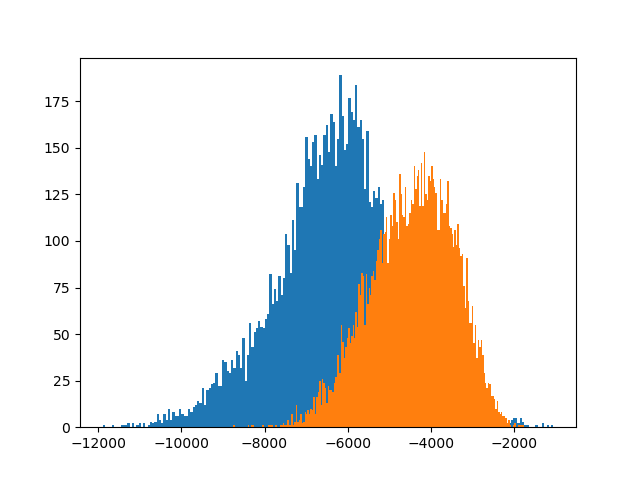
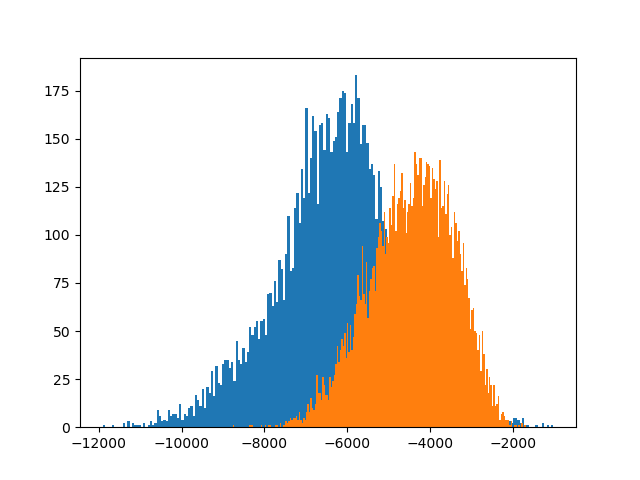
update ood detection result

diff --git a/ood_detect.py b/ood_detect.py
@@ -7,6 +7,7 @@ from tqdm import tqdm
 import matplotlib
 import matplotlib.pyplot as plt
 from collections import OrderedDict
+import numpy as np
 
 from model import PixelCNN
 from utils import discretized_mix_logistic_prob
@@ -15,7 +16,7 @@ rescaling     = lambda x : (x - .5) * 2.
 rescaling_inv = lambda x : .5 * x  + .5
 
 # device = torch.device("cuda:0" if torch.cuda.is_available() else "cpu")
-model_path  = './models/pcnn_lr.0.00040_nr-resnet5_nr-filters160_489.pth'
+model_path  = './models/pcnn_lr.0.00040_nr-resnet5_nr-filters160_889.pth'
 device = torch.device("cuda:0")
 
 transform = transforms.Compose([
@@ -72,4 +73,7 @@ with torch.no_grad():
     plt.hist(cifar_score.cpu().detach().numpy(), bins=200)
     plt.hist(svhn_score.cpu().detach().numpy(), bins=200)
     plt.savefig("hist.png")
-    print(f"bpd: {cifar_score.cpu().detach().numpy().mean()}")
+
+    mean_likelihood = cifar_score.cpu().detach().numpy().mean()
+    mean_bpd = -mean_likelihood * np.log2(np.e) / (32 * 32 * 3)
+    print(f"mean bpd: {mean_bpd}")

diff --git a/readme.md b/readme.md
@@ -27,3 +27,13 @@ python main.py
 
 ### Contact
 This repository is no longer maintained. Feel free to file an issue if need be, however response may be slow. 
+
+### Out-of-distribution detection
+| Epoch | BPD    | AUROC  |
+|-------|--------|--------|
+| 319   | 2.9418 | 0.1493 |
+| 489   | 2.9409 | 0.1518 |
+| 589   | 2.9361 | 0.1535 |
+| 789   | 2.9295 | 0.1570 |
+| 889   | 2.9292 | 0.1558 |
+
